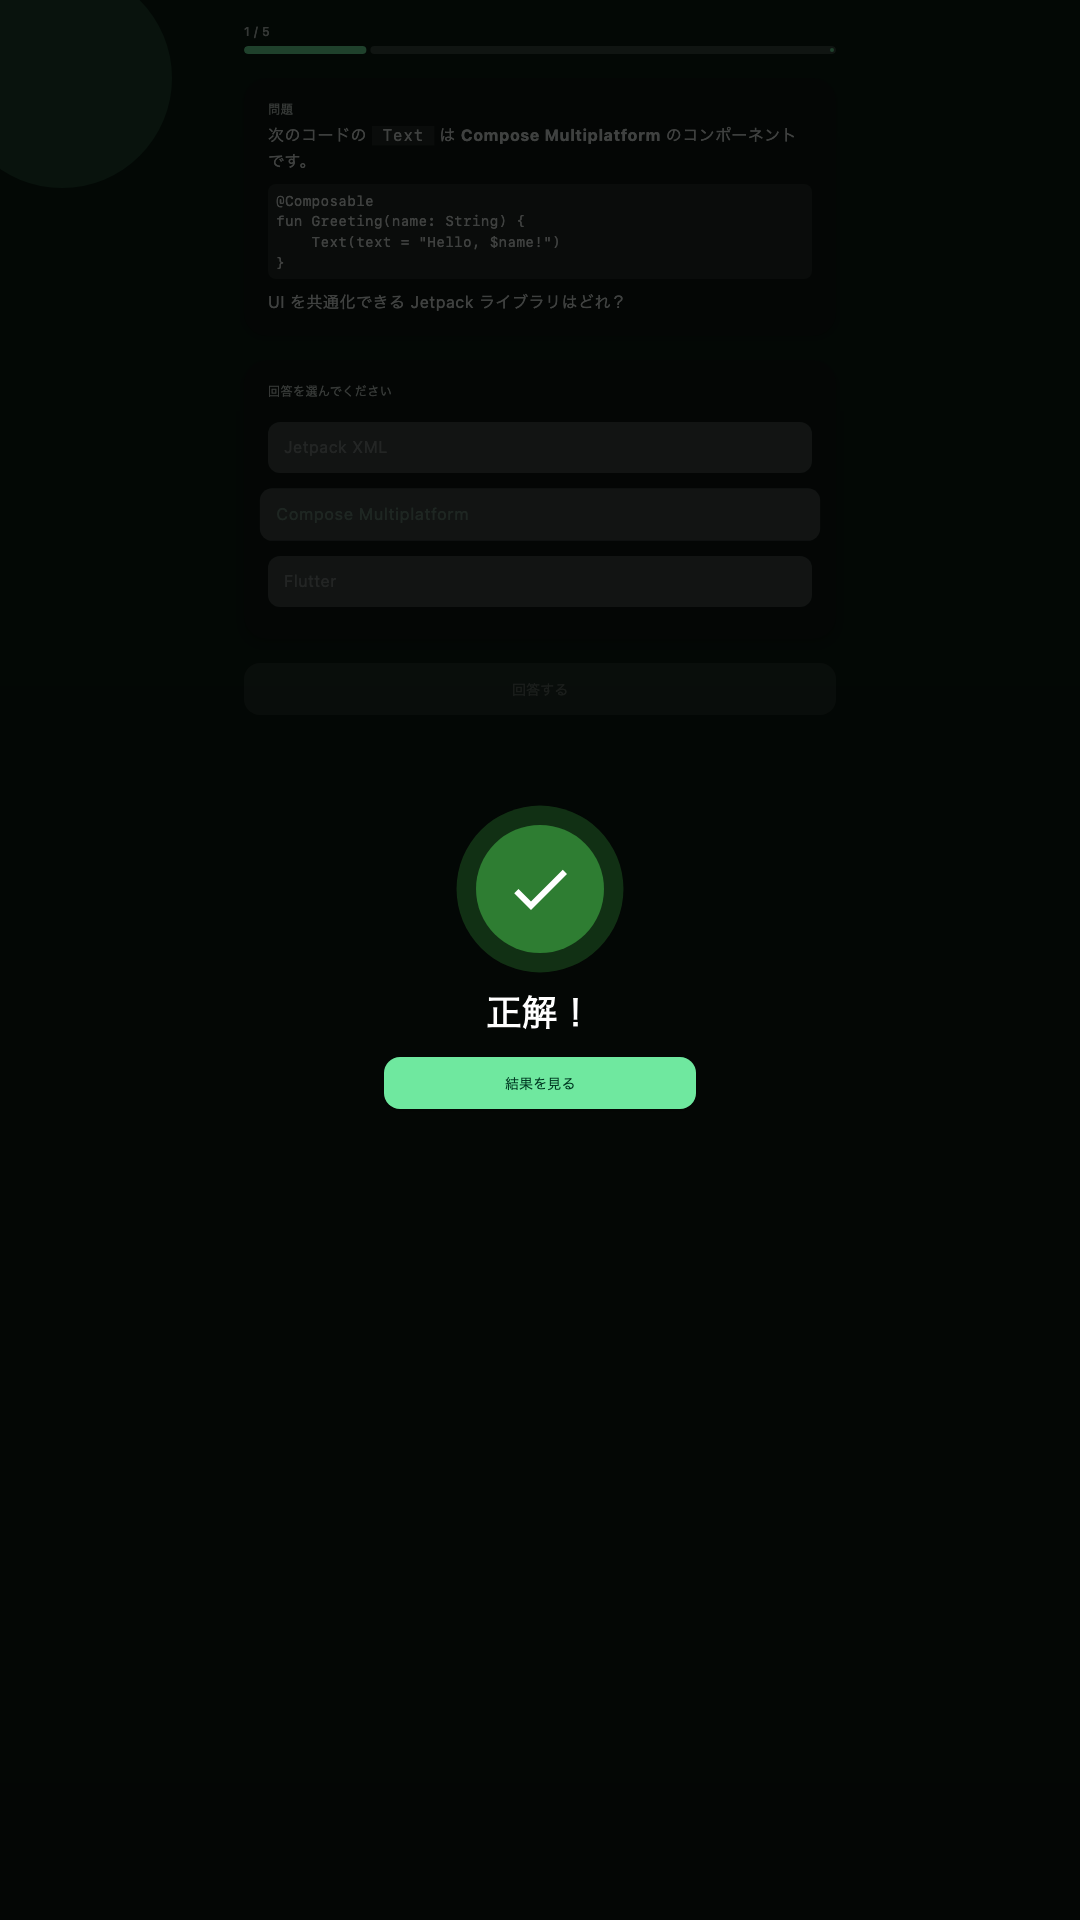
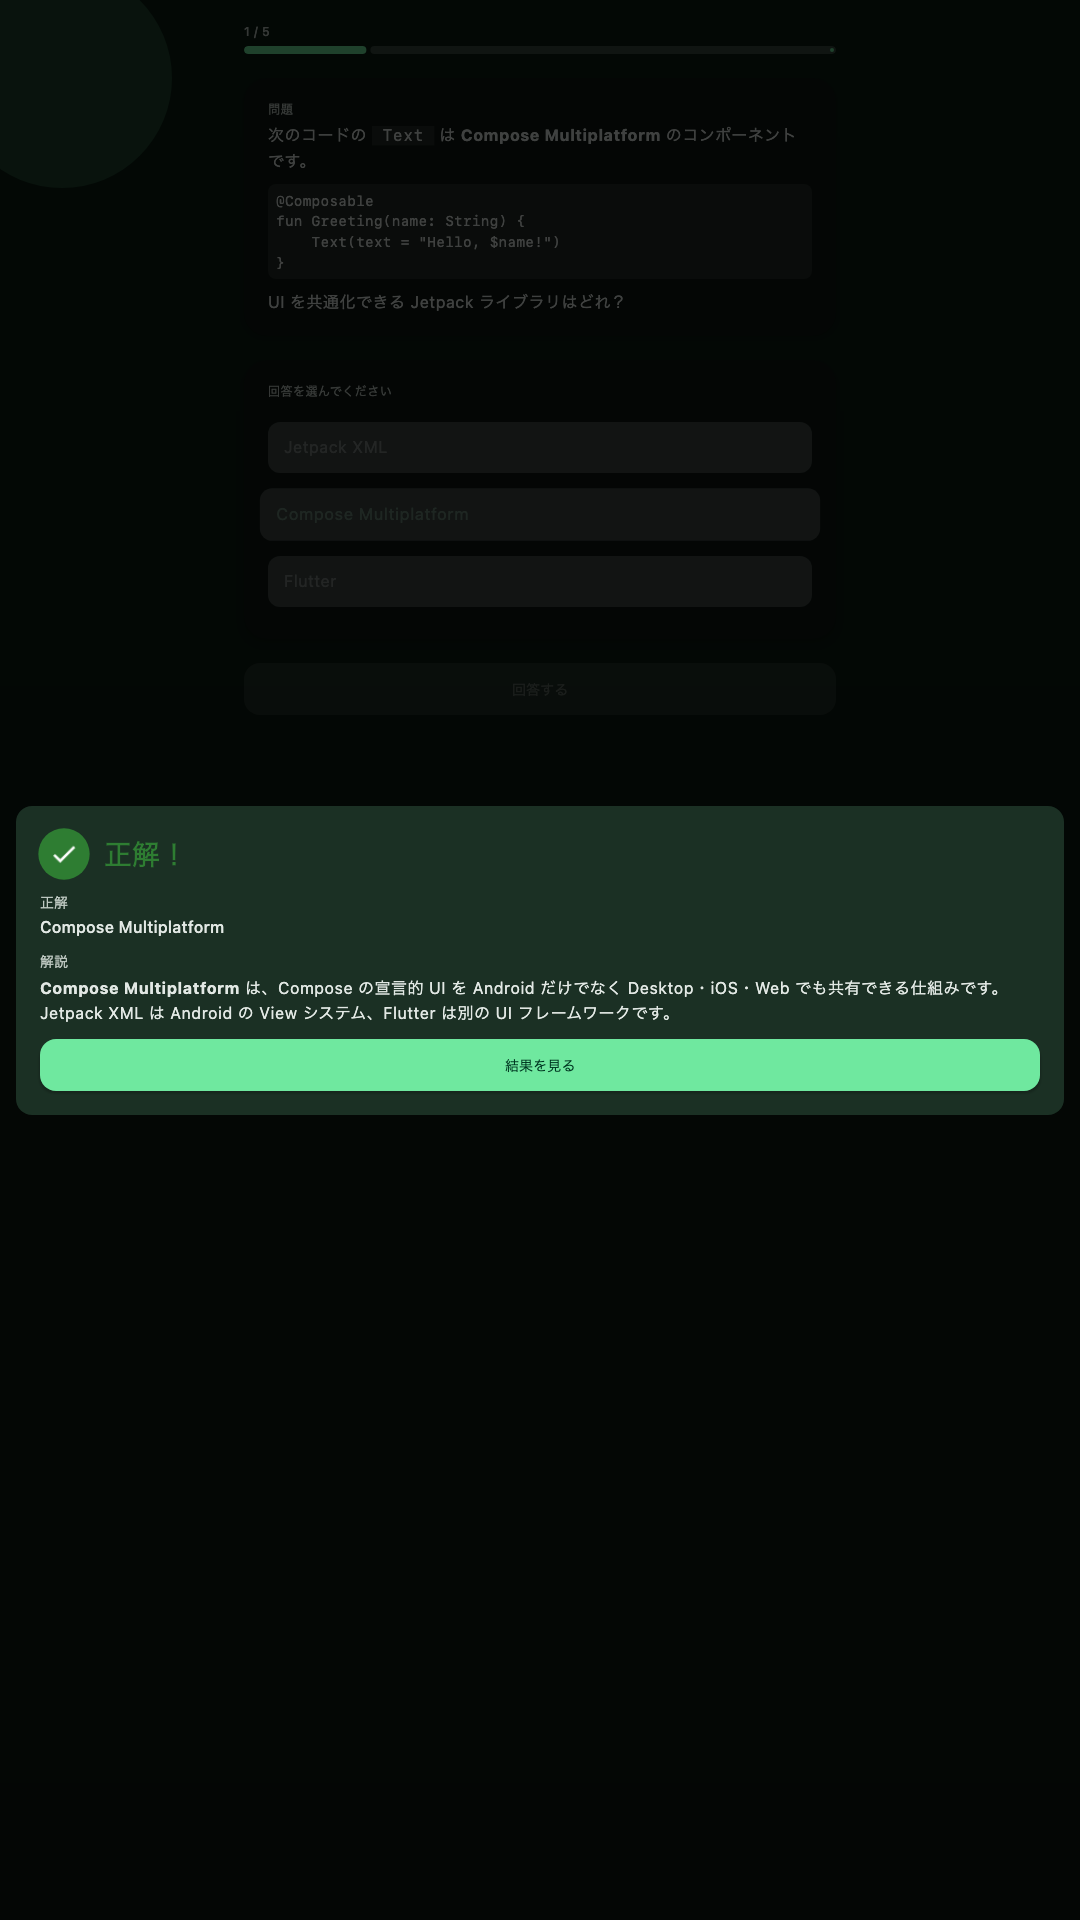
feat(quiz): 回答後のフィードバックに正解と解説を表示する
問題の explanationMarkdown が参加者に届くよう、正誤オーバーレイへ正解内容と解説を載せる。

Changed region(s): [[0.0, 0.4062, 1.0, 0.5938]]

diff --git a/core/ui/src/commonMain/kotlin/jp/co/yumemi/quiz/droidkaigi/core/ui/components/QuizAnswerFeedbackOverlay.kt b/core/ui/src/commonMain/kotlin/jp/co/yumemi/quiz/droidkaigi/core/ui/components/QuizAnswerFeedbackOverlay.kt
@@ -6,17 +6,25 @@ import androidx.compose.foundation.clickable
 import androidx.compose.foundation.interaction.MutableInteractionSource
 import androidx.compose.foundation.layout.Arrangement
 import androidx.compose.foundation.layout.Box
+import androidx.compose.foundation.layout.BoxWithConstraints
 import androidx.compose.foundation.layout.Column
+import androidx.compose.foundation.layout.Row
 import androidx.compose.foundation.layout.fillMaxSize
+import androidx.compose.foundation.layout.fillMaxWidth
+import androidx.compose.foundation.layout.heightIn
 import androidx.compose.foundation.layout.padding
 import androidx.compose.foundation.layout.size
 import androidx.compose.foundation.layout.widthIn
+import androidx.compose.foundation.rememberScrollState
 import androidx.compose.foundation.shape.CircleShape
+import androidx.compose.foundation.shape.RoundedCornerShape
+import androidx.compose.foundation.verticalScroll
 import androidx.compose.material.icons.Icons
 import androidx.compose.material.icons.filled.Check
 import androidx.compose.material.icons.filled.Close
 import androidx.compose.material3.Icon
 import androidx.compose.material3.MaterialTheme
+import androidx.compose.material3.Surface
 import androidx.compose.material3.Text
 import androidx.compose.runtime.Composable
 import androidx.compose.runtime.getValue
@@ -31,6 +39,8 @@ import androidx.compose.ui.semantics.semantics
 import androidx.compose.ui.unit.dp
 import jp.co.yumemi.quiz.droidkaigi.core.ui.generated.resources.Res
 import jp.co.yumemi.quiz.droidkaigi.core.ui.generated.resources.feedback_correct
+import jp.co.yumemi.quiz.droidkaigi.core.ui.generated.resources.feedback_correct_answer
+import jp.co.yumemi.quiz.droidkaigi.core.ui.generated.resources.feedback_explanation
 import jp.co.yumemi.quiz.droidkaigi.core.ui.generated.resources.feedback_incorrect
 import jp.co.yumemi.quiz.droidkaigi.core.ui.theme.QuizMotion
 import jp.co.yumemi.quiz.droidkaigi.core.ui.theme.QuizTokens
@@ -40,6 +50,8 @@ import org.jetbrains.compose.resources.stringResource
 @Composable
 fun QuizAnswerFeedbackOverlay(
     isCorrect: Boolean,
+    correctAnswer: String,
+    explanationMarkdown: String,
     continueLabel: String,
     onContinue: () -> Unit,
     modifier: Modifier = Modifier,
@@ -62,7 +74,7 @@ fun QuizAnswerFeedbackOverlay(
         label = "feedbackShake",
     )
 
-    Box(
+    BoxWithConstraints(
         modifier = modifier
             .fillMaxSize()
             .testTag("answerFeedbackOverlay")
@@ -75,52 +87,90 @@ fun QuizAnswerFeedbackOverlay(
             .semantics { contentDescription = feedbackText },
         contentAlignment = Alignment.Center,
     ) {
-        Column(
+        Surface(
             modifier = Modifier
-                .widthIn(max = 360.dp)
-                .padding(horizontal = QuizTokens.spacingLarge)
+                .padding(QuizTokens.spacingMedium)
+                .fillMaxWidth()
+                .widthIn(max = 420.dp)
+                .heightIn(max = maxHeight - QuizTokens.spacingExtraLarge)
                 .scale(revealScale),
-            horizontalAlignment = Alignment.CenterHorizontally,
-            verticalArrangement = Arrangement.spacedBy(QuizTokens.spacingLarge),
+            shape = RoundedCornerShape(QuizTokens.cornerLarge),
+            color = MaterialTheme.colorScheme.surface,
+            tonalElevation = QuizTokens.spacingSmall,
         ) {
-            Box(
-                contentAlignment = Alignment.Center,
-                modifier = Modifier.quizShake(shakeOffset),
+            Column(
+                modifier = Modifier.padding(QuizTokens.spacingLarge),
+                verticalArrangement = Arrangement.spacedBy(QuizTokens.spacingMedium),
             ) {
-                if (isCorrect) {
+                Row(
+                    modifier = Modifier.quizShake(shakeOffset),
+                    verticalAlignment = Alignment.CenterVertically,
+                    horizontalArrangement = Arrangement.spacedBy(QuizTokens.spacingMedium),
+                ) {
                     Box(
                         modifier = Modifier
-                            .size(156.dp)
+                            .size(48.dp)
                             .scale(1f + pulseAlpha * 0.2f)
-                            .background(accent.copy(alpha = pulseAlpha), CircleShape),
+                            .background(accent, CircleShape),
+                        contentAlignment = Alignment.Center,
+                    ) {
+                        Icon(
+                            imageVector = if (isCorrect) Icons.Default.Check else Icons.Default.Close,
+                            contentDescription = null,
+                            modifier = Modifier.size(28.dp),
+                            tint = Color.White,
+                        )
+                    }
+                    Text(
+                        text = feedbackText,
+                        style = MaterialTheme.typography.headlineMedium,
+                        color = accent,
                     )
                 }
-                Box(
+
+                if (correctAnswer.isNotBlank()) {
+                    Column(verticalArrangement = Arrangement.spacedBy(QuizTokens.spacingSmall)) {
+                        Text(
+                            text = stringResource(Res.string.feedback_correct_answer),
+                            style = MaterialTheme.typography.labelLarge,
+                            color = MaterialTheme.colorScheme.onSurfaceVariant,
+                        )
+                        Text(
+                            text = correctAnswer,
+                            modifier = Modifier.testTag("feedbackCorrectAnswer"),
+                            style = MaterialTheme.typography.titleMedium,
+                            color = MaterialTheme.colorScheme.onSurface,
+                        )
+                    }
+                }
+
+                if (explanationMarkdown.isNotBlank()) {
+                    Column(
+                        modifier = Modifier
+                            .weight(1f, fill = false)
+                            .verticalScroll(rememberScrollState())
+                            .testTag("feedbackExplanation"),
+                        verticalArrangement = Arrangement.spacedBy(QuizTokens.spacingSmall),
+                    ) {
+                        Text(
+                            text = stringResource(Res.string.feedback_explanation),
+                            style = MaterialTheme.typography.labelLarge,
+                            color = MaterialTheme.colorScheme.onSurfaceVariant,
+                        )
+                        QuizMarkdownText(explanationMarkdown)
+                    }
+                }
+
+                QuizPrimaryButton(
+                    text = continueLabel,
+                    onClick = onContinue,
                     modifier = Modifier
-                        .size(128.dp)
-                        .background(accent, CircleShape),
-                    contentAlignment = Alignment.Center,
-                ) {
-                    Icon(
-                        imageVector = if (isCorrect) Icons.Default.Check else Icons.Default.Close,
-                        contentDescription = null,
-                        modifier = Modifier.size(72.dp),
-                        tint = Color.White,
-                    )
-                }
+                        .fillMaxWidth()
+                        .testTag("feedbackContinue"),
+                    enabled = continueEnabled,
+                    loading = continueLoading,
+                )
             }
-            Text(
-                text = feedbackText,
-                style = MaterialTheme.typography.displaySmall,
-                color = Color.White,
-            )
-            QuizPrimaryButton(
-                text = continueLabel,
-                onClick = onContinue,
-                modifier = Modifier.testTag("feedbackContinue"),
-                enabled = continueEnabled,
-                loading = continueLoading,
-            )
         }
     }
 }

diff --git a/feature/quiz/src/commonMain/kotlin/jp/co/yumemi/quiz/droidkaigi/feature/quiz/quiz/QuizScreen.kt b/feature/quiz/src/commonMain/kotlin/jp/co/yumemi/quiz/droidkaigi/feature/quiz/quiz/QuizScreen.kt
@@ -225,9 +225,13 @@ fun QuizContent(
             val answerCorrect = state.lastAnswerCorrect
             val showFeedbackOverlay = state.showFeedback && answerCorrect != null
             var cachedFeedbackCorrect by remember { mutableStateOf(false) }
-            LaunchedEffect(answerCorrect) {
+            var cachedCorrectAnswer by remember { mutableStateOf("") }
+            var cachedExplanation by remember { mutableStateOf("") }
+            LaunchedEffect(answerCorrect, state.question) {
                 if (answerCorrect != null) {
                     cachedFeedbackCorrect = answerCorrect
+                    cachedCorrectAnswer = state.question?.correctAnswerText().orEmpty()
+                    cachedExplanation = state.question?.explanationMarkdown.orEmpty()
                 }
             }
             AnimatedVisibility(
@@ -237,6 +241,16 @@ fun QuizContent(
             ) {
                 QuizAnswerFeedbackOverlay(
                     isCorrect = answerCorrect ?: cachedFeedbackCorrect,
+                    correctAnswer = if (answerCorrect != null) {
+                        state.question?.correctAnswerText().orEmpty()
+                    } else {
+                        cachedCorrectAnswer
+                    },
+                    explanationMarkdown = if (answerCorrect != null) {
+                        state.question?.explanationMarkdown.orEmpty()
+                    } else {
+                        cachedExplanation
+                    },
                     continueLabel = stringResource(
                         if (state.isFinishing) {
                             Res.string.quiz_feedback_finish
@@ -270,6 +284,16 @@ fun QuizContent(
             },
         )
     }
+}
+
+private fun Question.correctAnswerText(): String = when (this) {
+    is SingleChoice -> options.firstOrNull { it.id == correctId }?.label.orEmpty()
+    is MultipleChoice -> options
+        .filter { it.id in correctIds }
+        .joinToString(separator = "\n") { "• ${it.label}" }
+    is Reorder -> correctOrder
+        .mapNotNull { id -> items.firstOrNull { it.id == id }?.label }
+        .joinToString(separator = " → ")
 }
 
 @Composable

diff --git a/feature/quiz/src/jvmTest/kotlin/jp/co/yumemi/quiz/droidkaigi/feature/quiz/quiz/QuizFeedbackOverlayJvmUiTest.kt b/feature/quiz/src/jvmTest/kotlin/jp/co/yumemi/quiz/droidkaigi/feature/quiz/quiz/QuizFeedbackOverlayJvmUiTest.kt
@@ -48,6 +48,41 @@ class QuizFeedbackOverlayJvmUiTest {
 
         onNodeWithTag("answerFeedbackOverlay", useUnmergedTree = true).assertIsDisplayed()
         onNodeWithText("正解！").assertIsDisplayed()
+        onNodeWithTag("feedbackCorrectAnswer", useUnmergedTree = true).assertIsDisplayed()
+        onNodeWithText("解説").assertIsDisplayed()
+        onNodeWithTag("feedbackExplanation", useUnmergedTree = true).assertIsDisplayed()
+        onNodeWithText("次の問題へ").assertIsDisplayed()
+    }
+
+    @OptIn(ExperimentalTestApi::class)
+    @Test
+    fun feedbackWithoutExplanation_omitsExplanationSection() = runComposeUiTest {
+        val state = QuizPreviewFixtures.singleChoiceState(
+            showFeedback = true,
+            lastAnswerCorrect = true,
+        )
+        setContent {
+            CompositionLocalProvider(LocalAppLocale provides "ja") {
+                key("ja") {
+                    QuizTheme {
+                        QuizContent(
+                            state = state.copy(
+                                question = QuizPreviewFixtures.singleChoiceQuestion.copy(
+                                    explanationMarkdown = "",
+                                ),
+                            ),
+                            onSelectSingle = {},
+                            onToggleMultiple = {},
+                            onMoveReorder = { _, _ -> },
+                            onSubmitAnswer = {},
+                            onContinueAfterFeedback = {},
+                        )
+                    }
+                }
+            }
+        }
+
+        onAllNodesWithText("解説").assertCountEquals(0)
         onNodeWithText("次の問題へ").assertIsDisplayed()
     }
 

diff --git a/androidApp/src/androidTest/kotlin/jp/co/yumemi/quiz/droidkaigi/QuizFeedbackScreenshotAndroidTest.kt b/androidApp/src/androidTest/kotlin/jp/co/yumemi/quiz/droidkaigi/QuizFeedbackScreenshotAndroidTest.kt
@@ -37,6 +37,12 @@ class QuizFeedbackScreenshotAndroidTest {
     private val question = SingleChoice(
         id = "screenshot-single",
         prompt = "UI を Android / Desktop / Web などで共通化できる Jetpack ライブラリはどれ？",
+        explanationMarkdown = """
+            **Compose Multiplatform** は、Compose の宣言的 UI を Android だけでなく
+            Desktop・iOS・Web でも共有できる仕組みです。
+
+            Jetpack XML は Android の View システム、Flutter は別の UI フレームワークです。
+        """.trimIndent(),
         options = listOf(
             ChoiceOption("a", "Jetpack XML"),
             ChoiceOption("b", "Compose Multiplatform"),

diff --git a/feature/quiz/src/commonMain/kotlin/jp/co/yumemi/quiz/droidkaigi/feature/quiz/preview/QuizPreviewFixtures.kt b/feature/quiz/src/commonMain/kotlin/jp/co/yumemi/quiz/droidkaigi/feature/quiz/preview/QuizPreviewFixtures.kt
@@ -22,6 +22,12 @@ object QuizPreviewFixtures {
 
             UI を共通化できる Jetpack ライブラリはどれ？
         """.trimIndent(),
+        explanationMarkdown = """
+            **Compose Multiplatform** は、Compose の宣言的 UI を Android だけでなく
+            Desktop・iOS・Web でも共有できる仕組みです。
+
+            Jetpack XML は Android の View システム、Flutter は別の UI フレームワークです。
+        """.trimIndent(),
         options = listOf(
             ChoiceOption("a", "Jetpack XML"),
             ChoiceOption("b", "Compose Multiplatform"),

diff --git a/docs/user/participant/quiz.md b/docs/user/participant/quiz.md
@@ -28,12 +28,14 @@
 
 | 状態 | 表示例 |
 |------|--------|
-| 正解 | 「正解！」と次の問題へ進むボタン |
-| 不正解 | 不正解フィードバックと次へ進む導線 |
-| 最終問題の正解後 | 結果画面へ進む導線 |
+| 正解 | 「正解！」、正解の内容、解説、次の問題へ進むボタン |
+| 不正解 | 「不正解」、正解の内容、解説、次へ進む導線 |
+| 最終問題の回答後 | 正誤、正解の内容、解説、結果画面へ進む導線 |
 
 <img src="/screenshots/android/android-01-feedback-correct.png" alt="正解フィードバック" width="280" />
 <img src="/screenshots/android/android-02-feedback-incorrect.png" alt="不正解フィードバック" width="280" />
 <img src="/screenshots/android/android-03-feedback-finish.png" alt="最終問題後のフィードバック" width="280" />
+
+解説は Markdown で表示されます。解説が長い場合は解説部分をスクロールでき、解説が登録されていない問題では解説欄を表示しません。
 
 フィードバック表示中の時間は、採点の経過時間には含まれません。

diff --git a/docs/en/user/participant/quiz.md b/docs/en/user/participant/quiz.md
@@ -26,12 +26,14 @@ Drag the handle on the right to reorder, then submit.
 
 | State | What you see |
 |-------|----------------|
-| Correct | “Correct!” and continue |
-| Incorrect | Incorrect feedback and continue |
-| Last question (correct) | Continue to Result |
+| Correct | “Correct!”, the correct answer, an explanation, and continue |
+| Incorrect | “Incorrect”, the correct answer, an explanation, and continue |
+| Last question | Feedback, the correct answer, an explanation, and continue to Result |
 
 <img src="/screenshots/android/android-01-feedback-correct.png" alt="Correct feedback" width="280" />
 <img src="/screenshots/android/android-02-feedback-incorrect.png" alt="Incorrect feedback" width="280" />
 <img src="/screenshots/android/android-03-feedback-finish.png" alt="Finishing feedback" width="280" />
+
+Explanations are rendered as Markdown. Long explanations can be scrolled, while the explanation section is omitted when none is registered.
 
 Time spent on the feedback overlay is **not** included in scoring elapsed time.

diff --git a/docs/SPEC.md b/docs/SPEC.md
@@ -11,7 +11,7 @@
 | 画面 | 説明 |
 |------|------|
 | Home | ニックネーム入力、クイズ開始。`sitePublished == false` のときは受付前メッセージを表示し開始不可 |
-| Quiz | 問題形式に応じた UI、進捗（1-based `n / N`）、回答。回答後は全画面フィードバック → タップで次へ／結果へ |
+| Quiz | 問題形式に応じた UI、進捗（1-based `n / N`）、回答。回答後は全画面フィードバックに正誤・正解・解説（登録時のみ）を表示 → ボタンで次へ／結果へ |
 | Result | 正解率（0〜100%）と完全正解数。ランキングへ |
 | Ranking | 当日 Top N、自分の行をハイライト、各エントリの回答完了日時（`MM/dd HH:mm`、欠落時は「不明」）を表示 |
 
